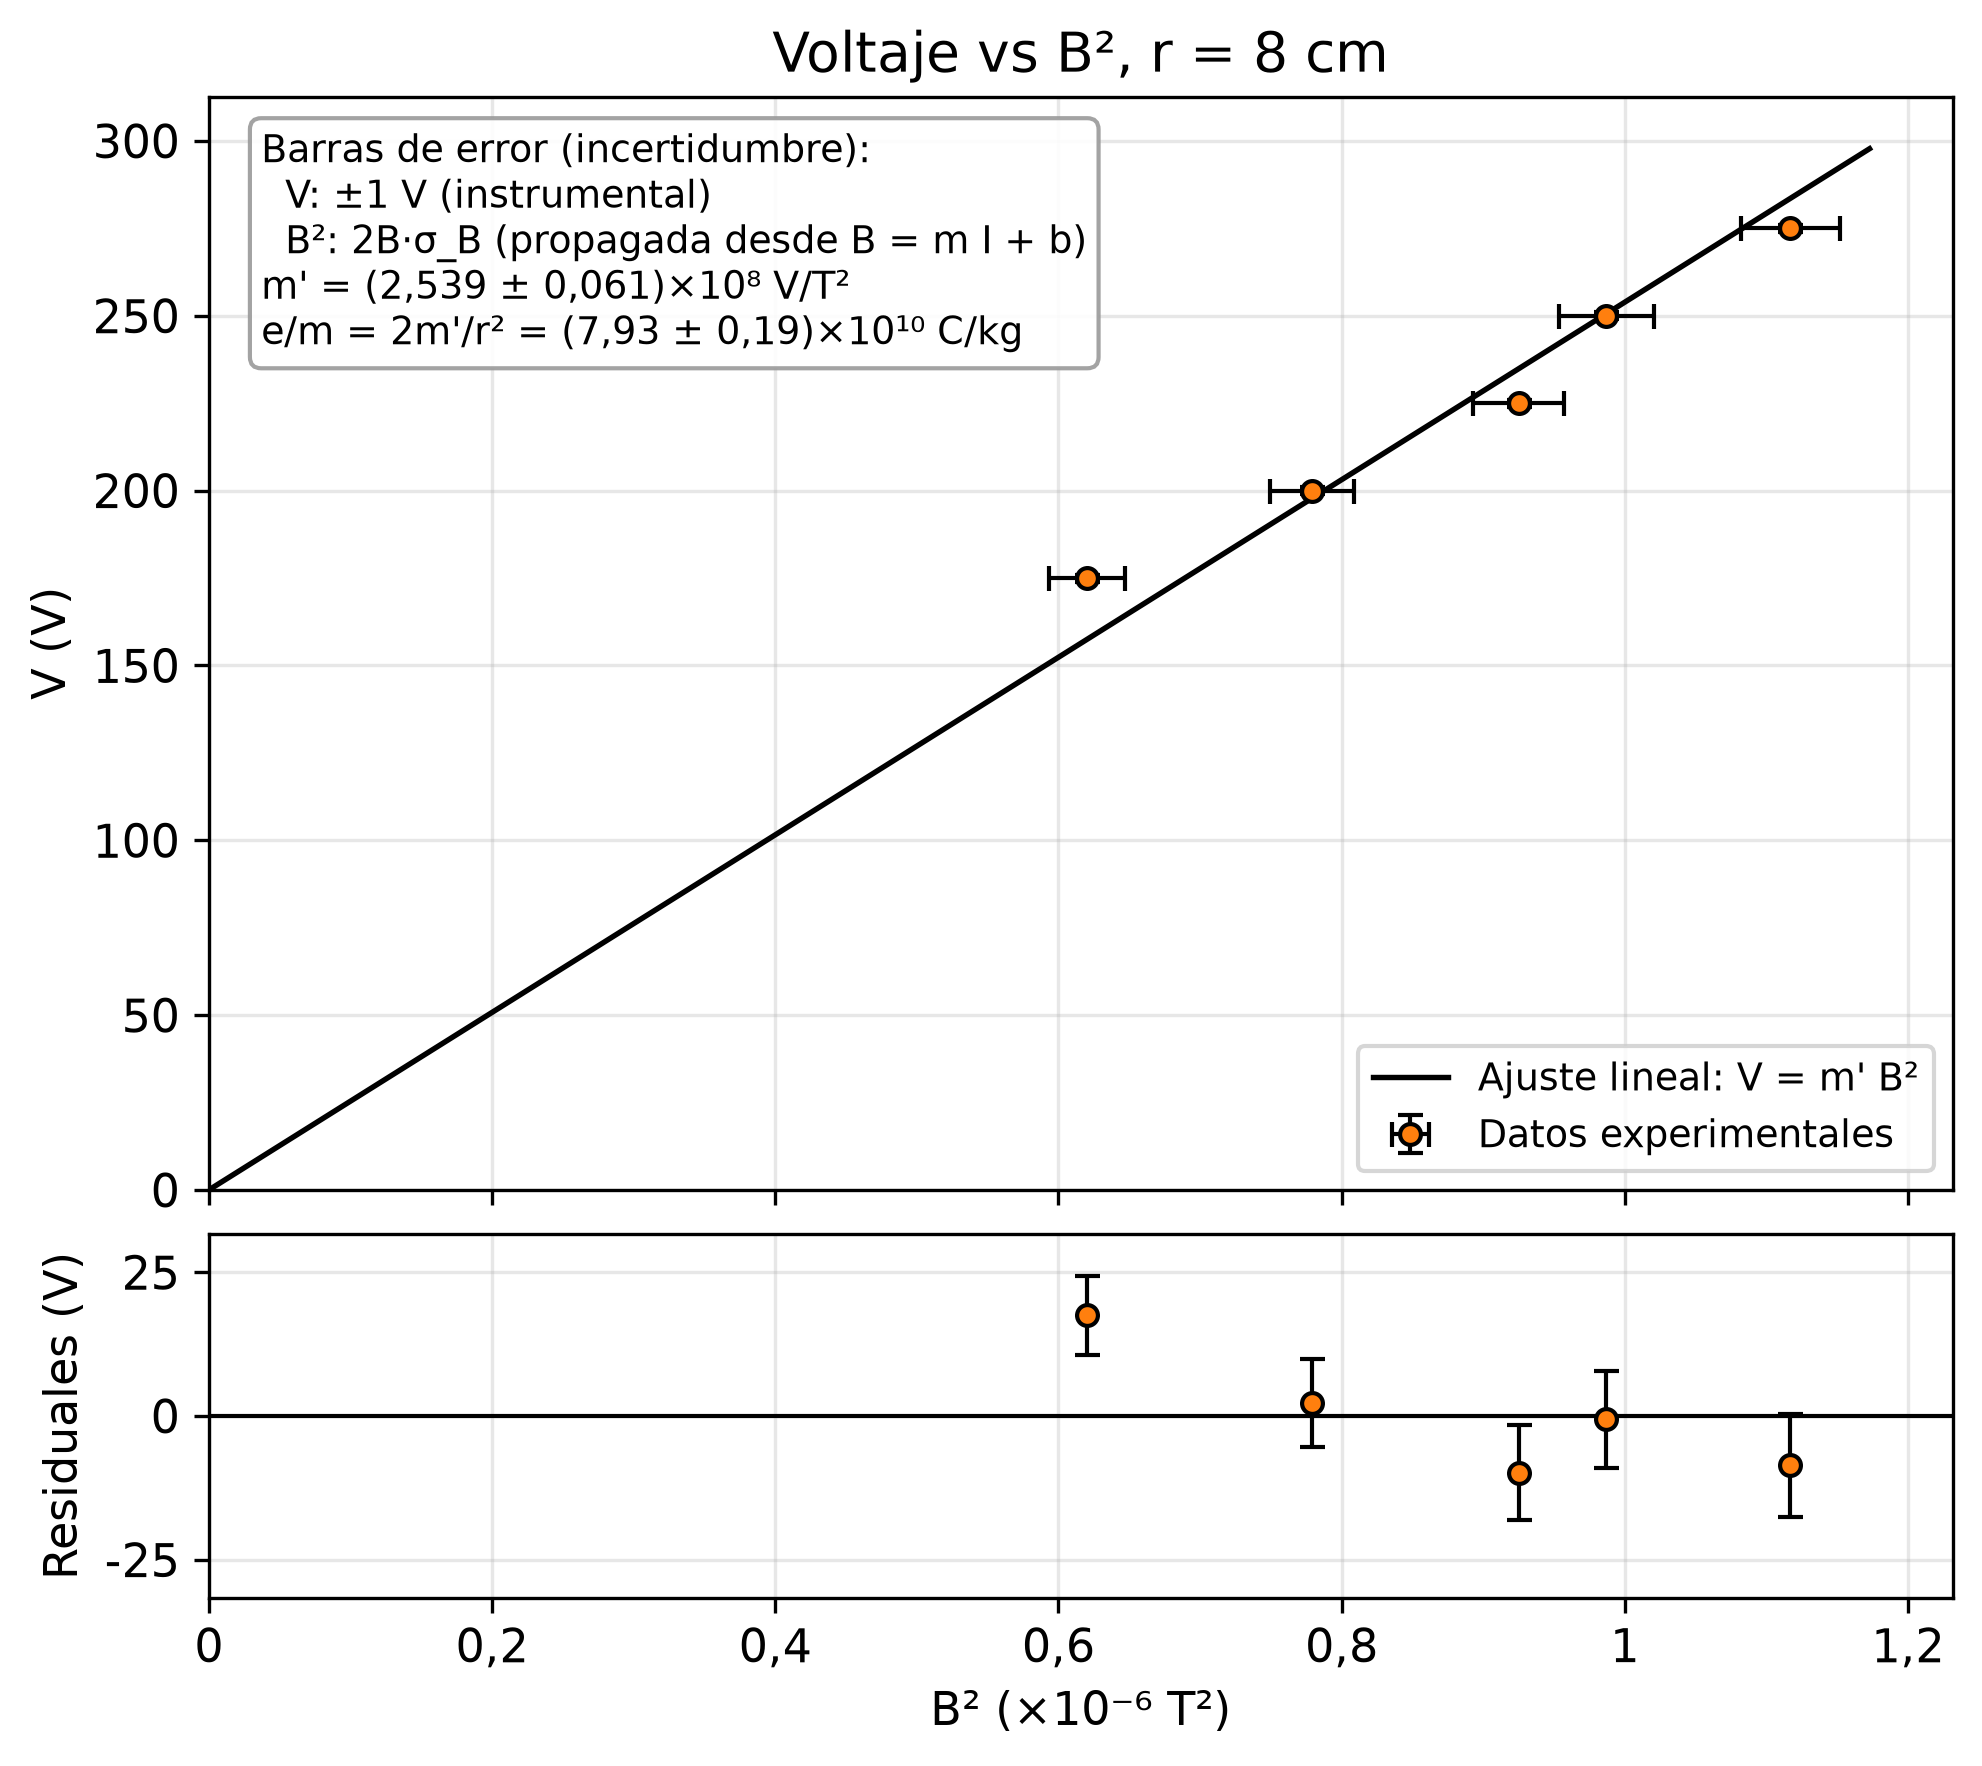
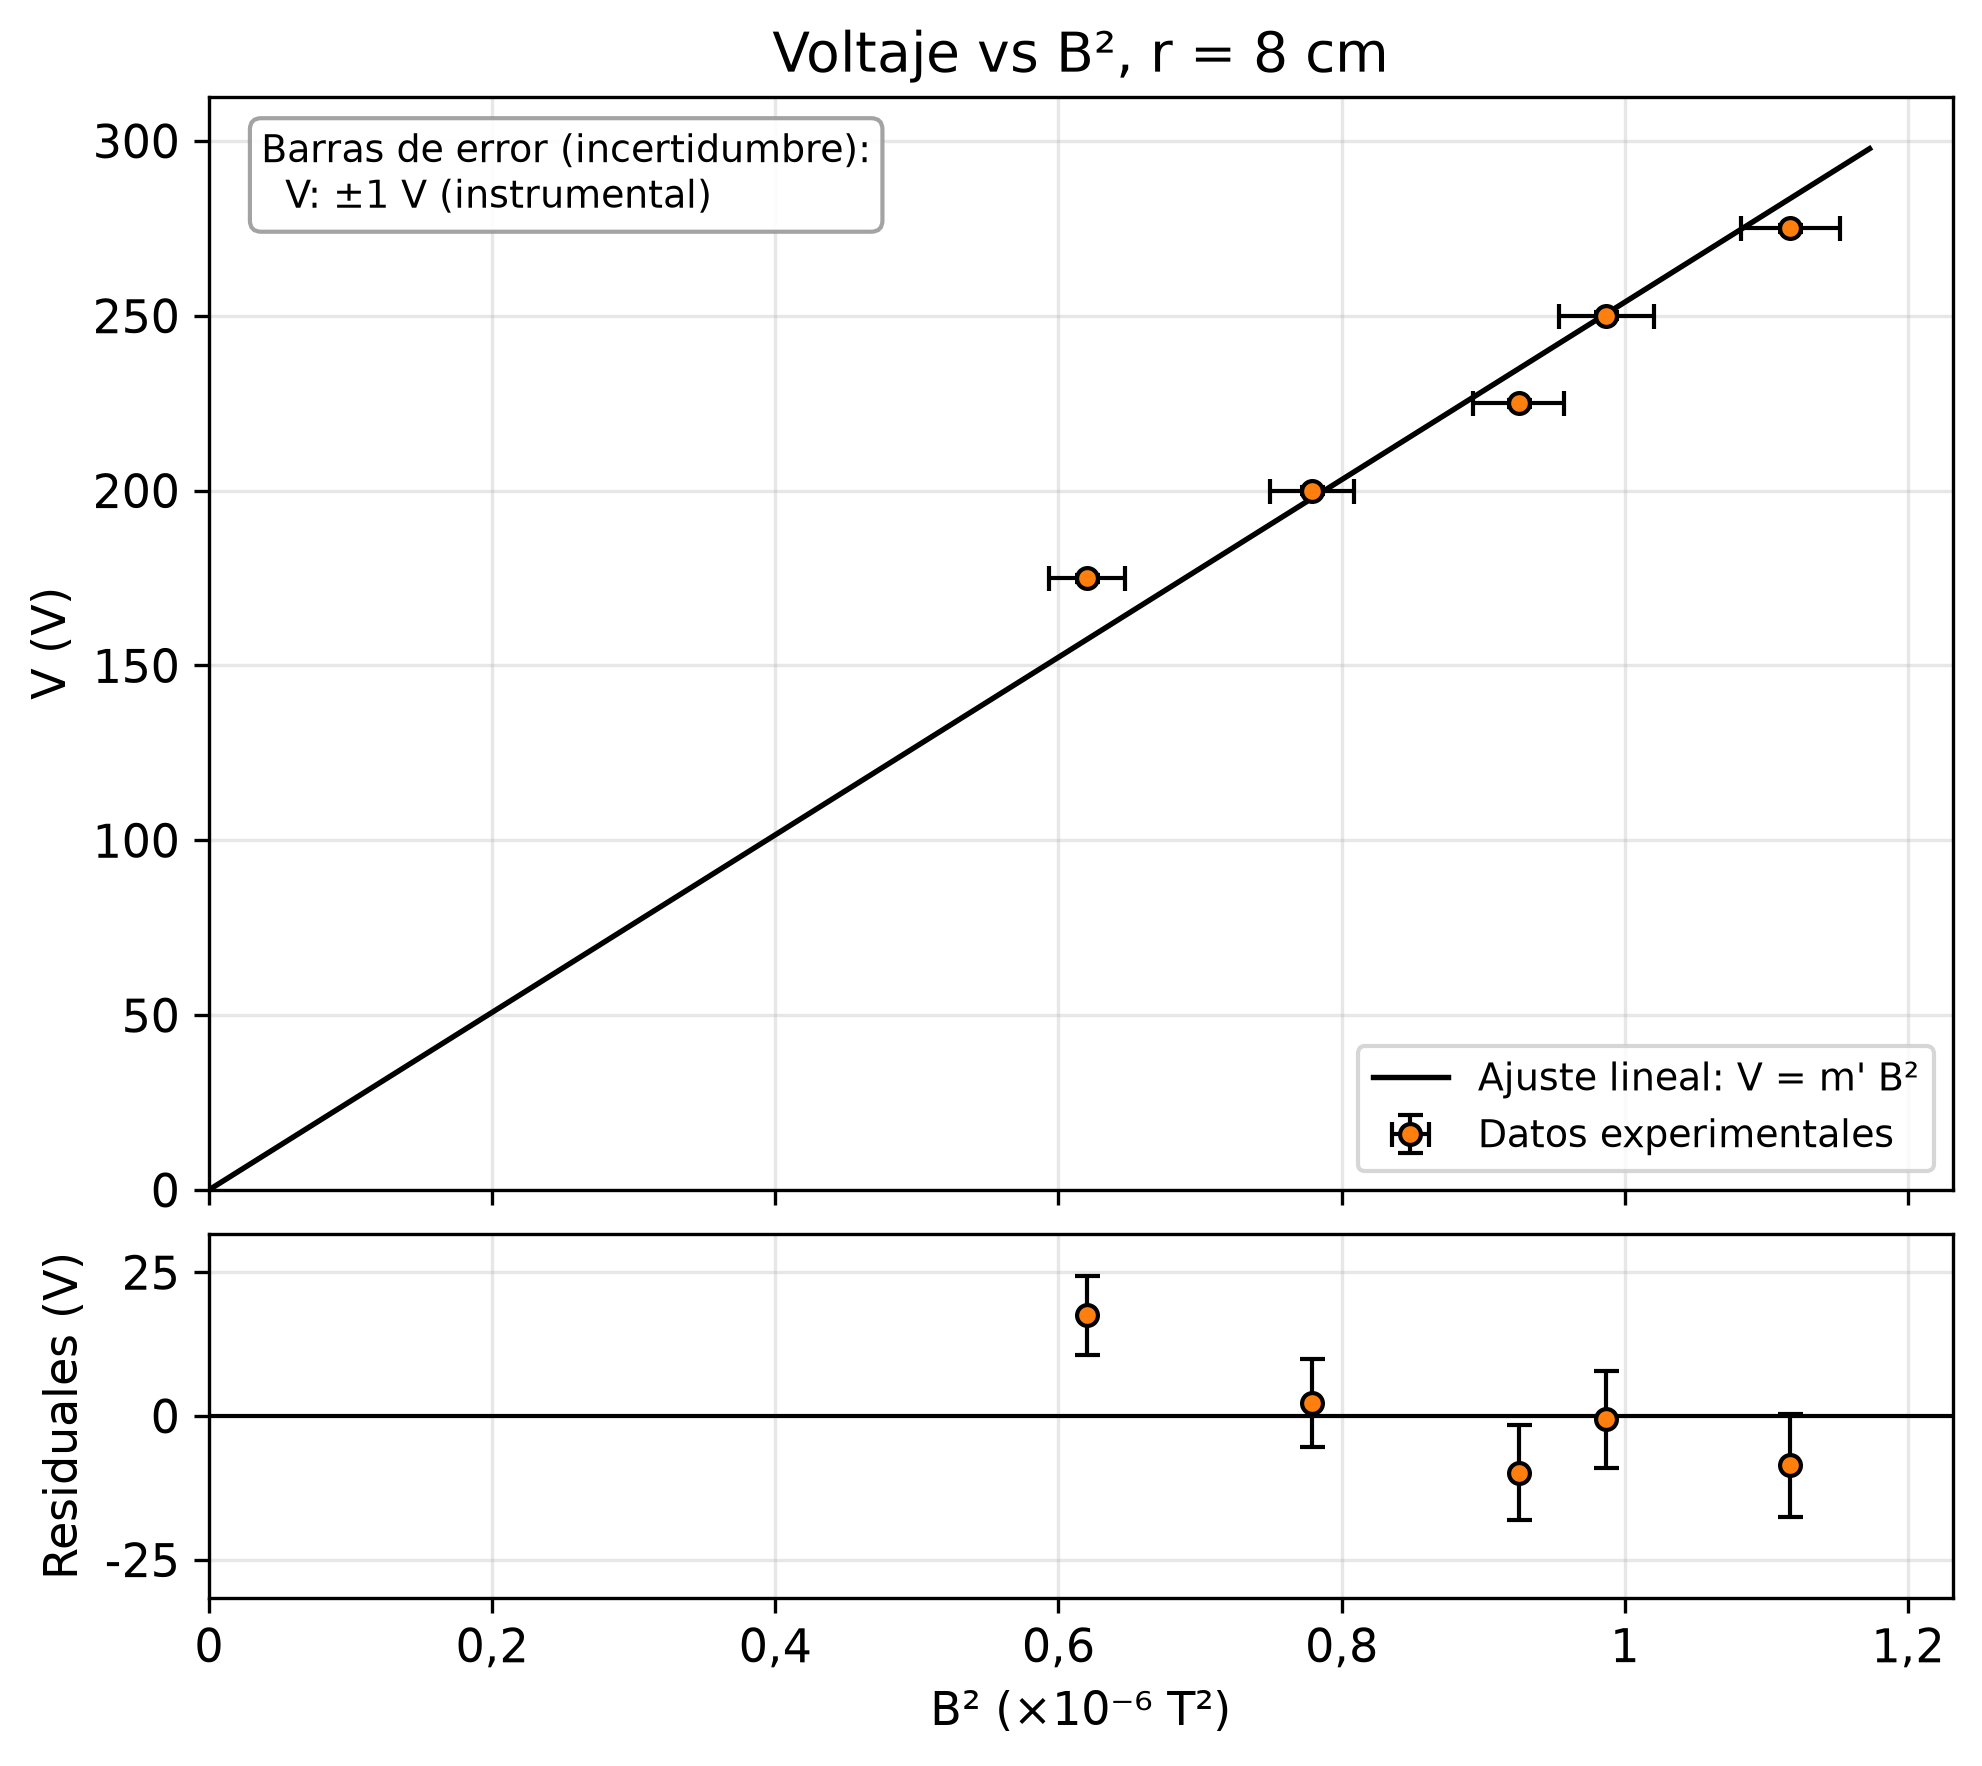
Quitar m', e/m y B² de los recuadros de las gráficas

diff --git a/analisis.py b/analisis.py
@@ -218,7 +218,6 @@ for r, I_r in RADIOS.items():
     em = 2 * s_T / r**2
     sem = np.sqrt((2 / r**2 * ss_T) ** 2 + (4 * s_T / r**3 * SIGMA_R) ** 2)
     resumen.append((r, s_T, ss_T, chi2, em, sem))
-    mp_txt = fmt_sci(s_T, ss_T)[0]
 
     for vi, ii, bi, sbi, b2i, sb2i, u in zip(Vr, Ir, B, sB, B2, sB2, usar_v):
         csv_filas.append(f"{r},{vi:g},{SIGMA_V:g},{ii:g},{SIGMA_I:g},"
@@ -232,7 +231,6 @@ for r, I_r in RADIOS.items():
             .replace("0.01", "0,01").replace(f"{ii:.2f}", f"{ii:.2f}".replace(".", ",")))
     tex_filas.append("\\midrule")
 
-    em_txt, _ = fmt_sci(em, sem)
     texto_err = ("Barras de error (incertidumbre):\n"
                  f"  V: ±{SIGMA_V:g} V (instrumental)\n")
 
@@ -255,9 +253,8 @@ for r, I_r in RADIOS.items():
     ax.set_title(f"Voltaje vs corriente, r = {rcm} cm")
     ax.legend(loc="lower right", fontsize=9)
     caja(ax,
-         (texto_err + f"  I: ±{SIGMA_I:g} A (instrumental)\n"
-          f"m' = {mp_txt} V/T²\n"
-          f"e/m = {em_txt} C/kg").replace(".", ","))
+         (texto_err + f"  I: ±{SIGMA_I:g} A (instrumental)")
+         .replace(".", ","))
     res = Vr - s * (m * Ir + b) ** 2
     s_eff = np.sqrt(SIGMA_V**2 + (2 * s * (m * Ir + b) * m * SIGMA_I) ** 2)
     axr.axhline(0, color="k", lw=1)
@@ -287,10 +284,7 @@ for r, I_r in RADIOS.items():
     ax.set_ylim(0, None)
     ax.set_title(f"Voltaje vs B², r = {rcm} cm")
     ax.legend(loc="lower right", fontsize=9)
-    caja(ax,
-         (texto_err + "  B²: 2B·σ_B (propagada desde B = m I + b)\n"
-          f"m' = {mp_txt} V/T²\n"
-          f"e/m = 2m'/r² = {em_txt} C/kg").replace(".", ","))
+    caja(ax, texto_err.rstrip("\n").replace(".", ","))
     res = Vr - s * B2
     s_eff = np.sqrt(SIGMA_V**2 + (s * sB2) ** 2)
     axr.axhline(0, color="k", lw=1)
